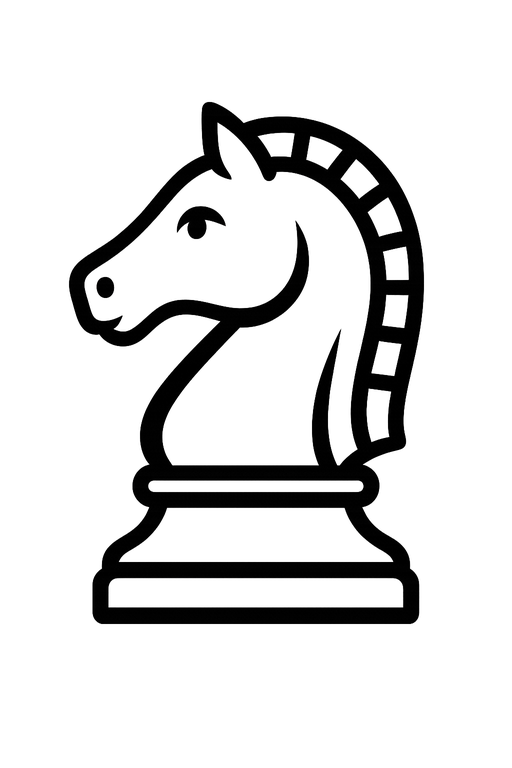
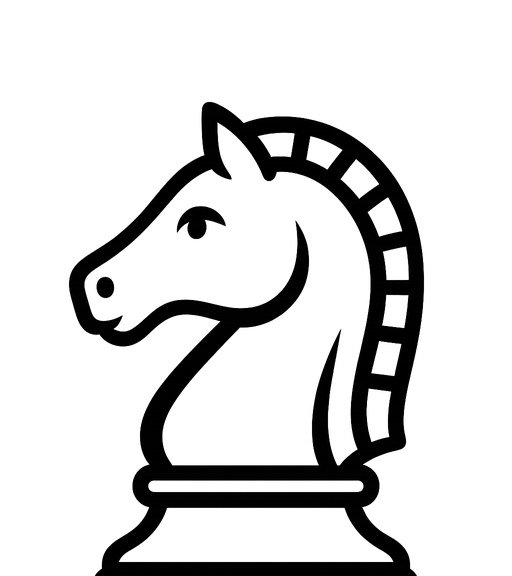
1st draft complete

Changed region(s): [[0.125, 0.125, 0.8438, 1.0]]

diff --git a/index.html b/index.html
@@ -90,10 +90,7 @@
                 class="icon"
               />
               <h3>Experience</h3>
-              <p>
-                2+ years <br />
-                Accounting
-              </p>
+              <p>Accounting</p>
             </div>
             <div class="details-container">
               <img
@@ -103,7 +100,7 @@
               />
               <h3>Education</h3>
               <p>
-                B.Sc. Bachelor Degree <br />
+                B.Sc. Bachelor Degree in Accounting <br />
                 Software Engineer Bootcamp
               </p>
             </div>
@@ -251,17 +248,17 @@
                 class="project-img"
               />
             </div>
-            <h2 class="skills-sub-title project-title">Project One</h2>
+            <h2 class="skills-sub-title project-title">Price Loop</h2>
             <div class="btn-container">
               <button
                 class="btn btn-color-2 project-btn"
-                onclick="location.href='https:github.com/'"
+                onclick="location.href='https://github.com/gerardosdl/price-loop'"
               >
                 Github
               </button>
               <button
                 class="btn btn-color-2 project-btn"
-                onclick="location.href='https:github.com/'"
+                onclick="location.href='https://price-loop-c6ce75e11708.herokuapp.com/'"
               >
                 Live Demo
               </button>
@@ -275,17 +272,17 @@
                 class="project-img"
               />
             </div>
-            <h2 class="skills-sub-title project-title">Project Two</h2>
+            <h2 class="skills-sub-title project-title">Stock PickR</h2>
             <div class="btn-container">
               <button
                 class="btn btn-color-2 project-btn"
-                onclick="location.href='https:github.com/'"
+                onclick="location.href='https://github.com/gerardosdl/stock-pickr'"
               >
                 Github
               </button>
               <button
                 class="btn btn-color-2 project-btn"
-                onclick="location.href='https:github.com/'"
+                onclick="location.href='https://stock-pickr-231b4dae260d.herokuapp.com/'"
               >
                 Live Demo
               </button>
@@ -299,17 +296,19 @@
                 class="project-img"
               />
             </div>
-            <h2 class="skills-sub-title project-title">Project Three</h2>
+            <h2 class="skills-sub-title project-title">
+              Merge Conflict (group project)
+            </h2>
             <div class="btn-container">
               <button
                 class="btn btn-color-2 project-btn"
-                onclick="location.href='https:github.com/'"
+                onclick="location.href='https://github.com/gerardosdl/MergeConflict'"
               >
                 Github
               </button>
               <button
                 class="btn btn-color-2 project-btn"
-                onclick="location.href='https:github.com/'"
+                onclick="location.href='http://mergeconflict.thisdemo.rocks/'"
               >
                 Live Demo
               </button>

diff --git a/style.css b/style.css
@@ -292,8 +292,10 @@ section {
 }
 
 .about-pic {
+  width: 100%;
+  object-fit: contain;
   border-radius: 2rem;
-  height: 135%;
+  height: auto;
 }
 
 .arrow {
